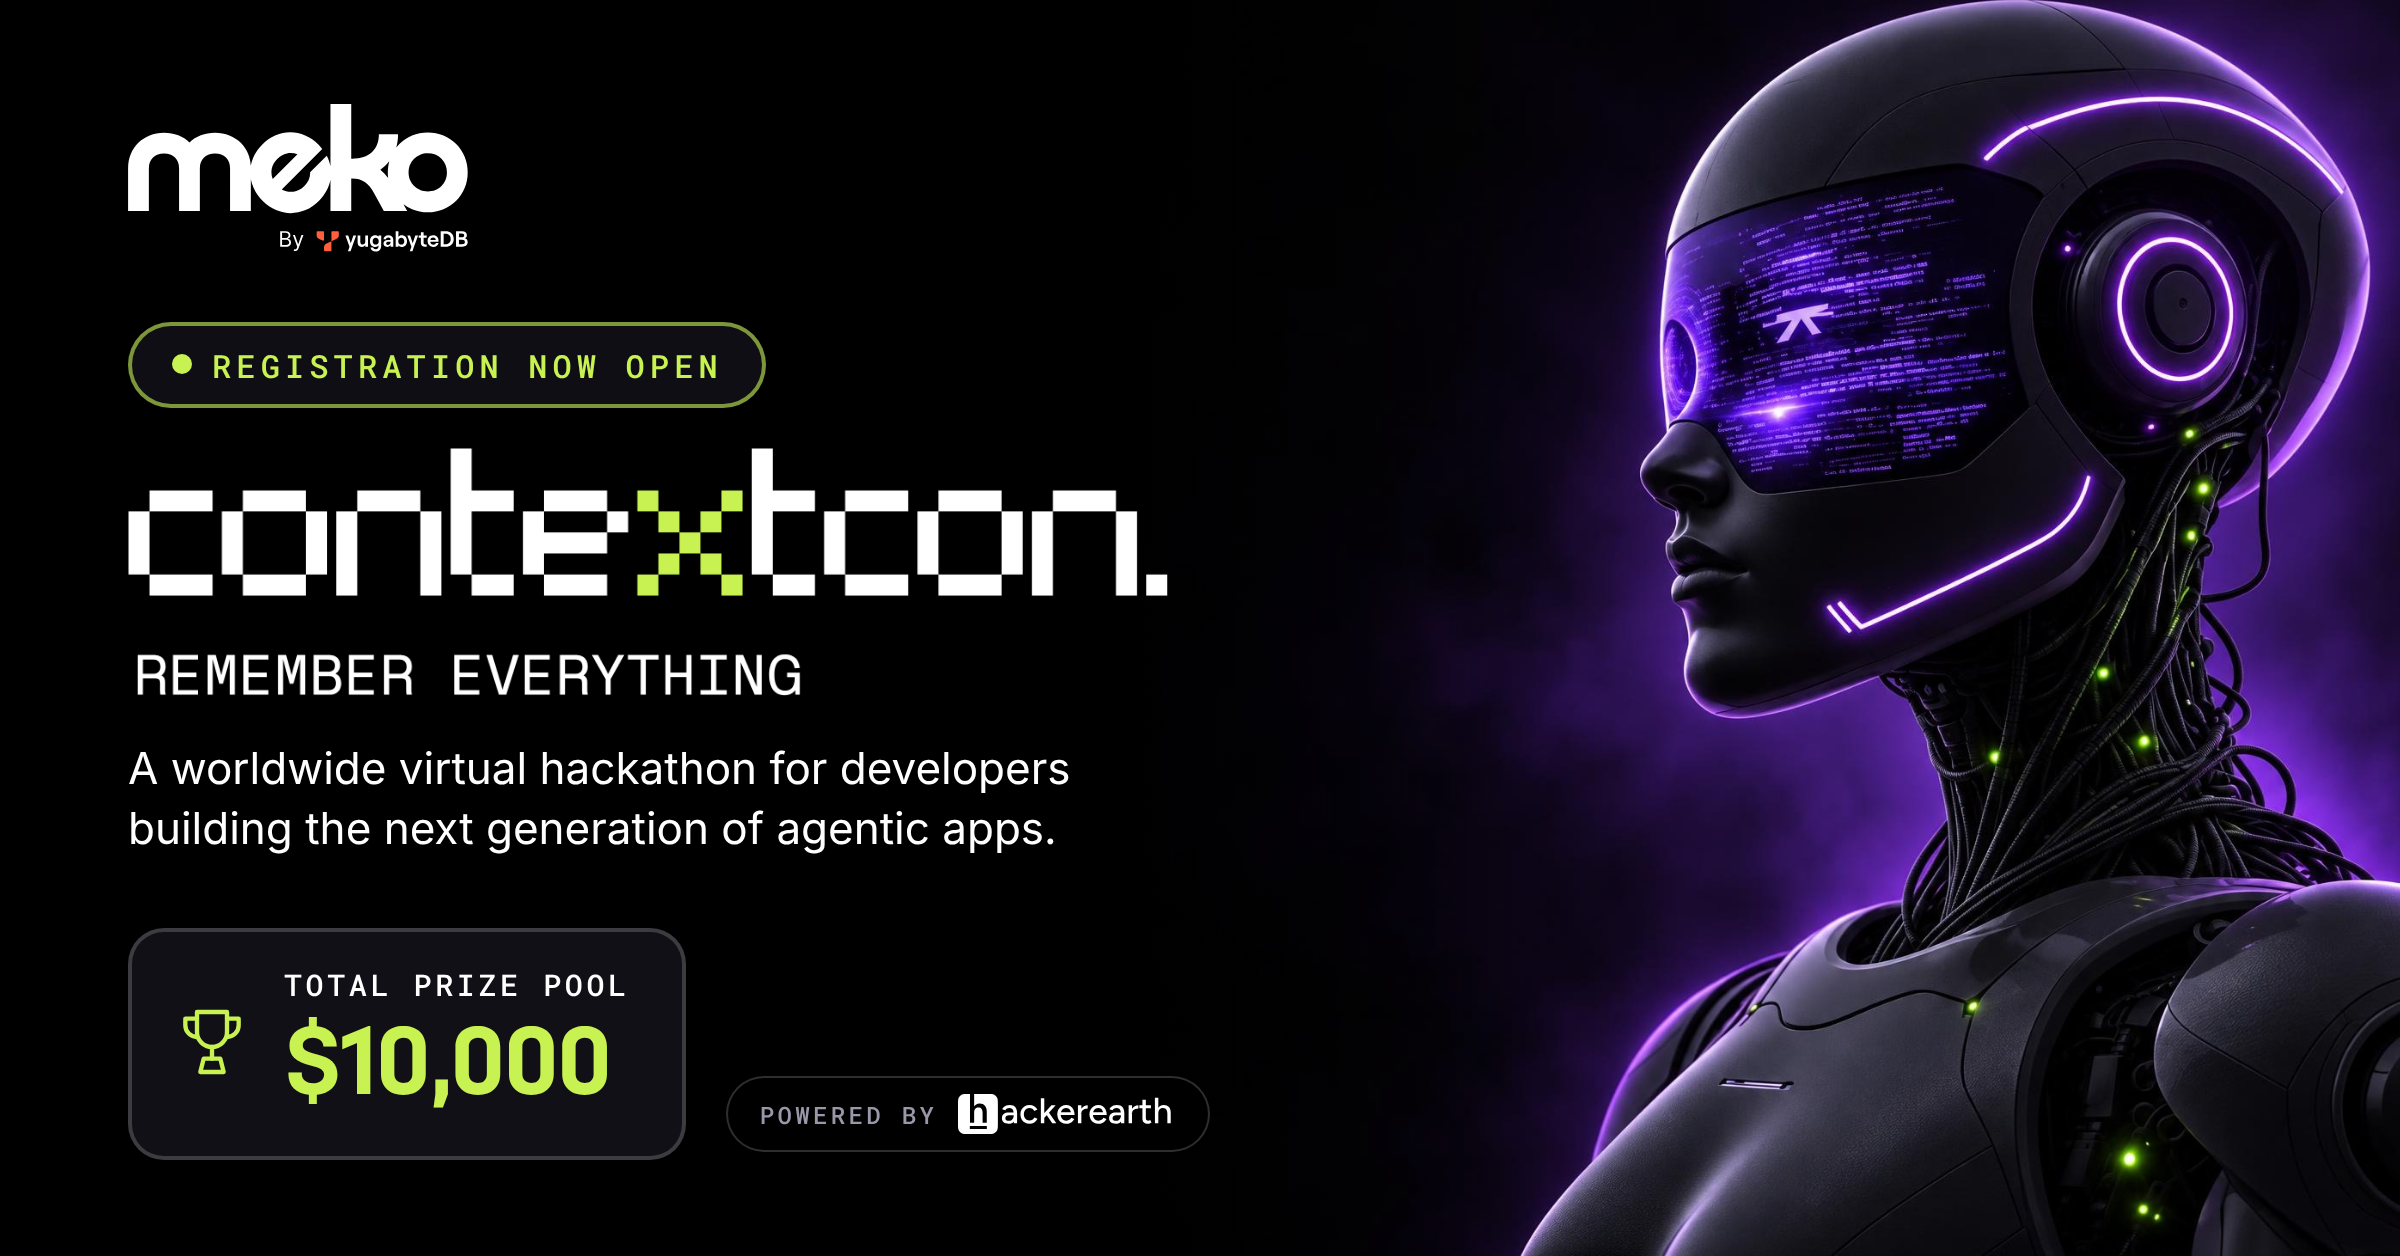
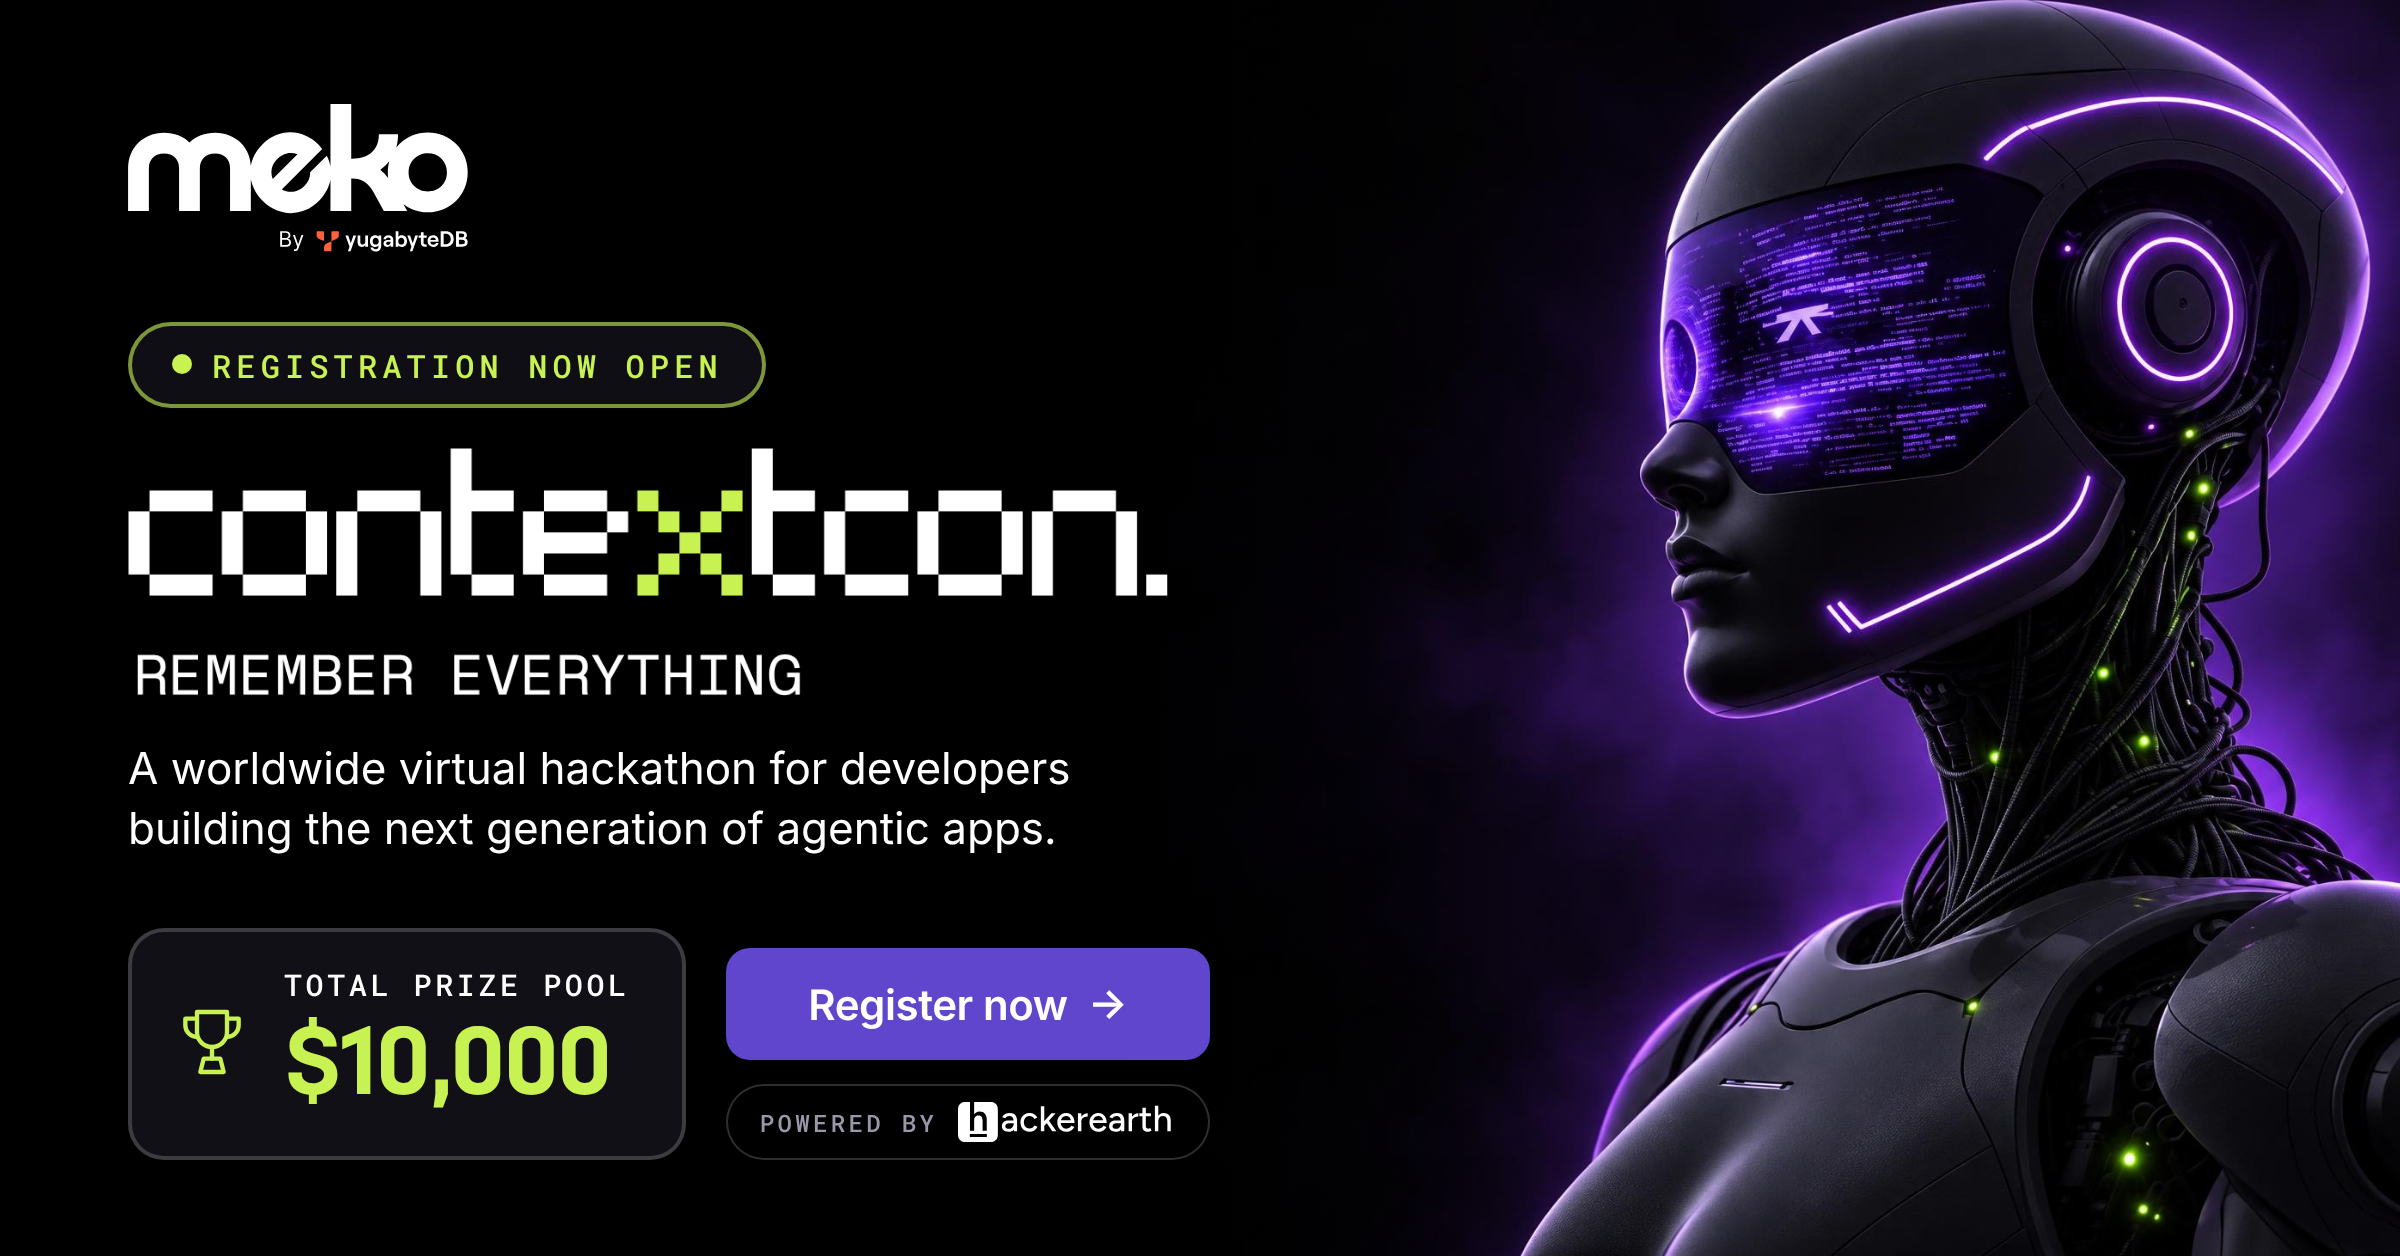
Facebook post: add Register now button
Claude-Session: https://claude.ai/code/session_011WvSfbuXTc2R9BKwTF66Kj

Changed region(s): [[0.2812, 0.7452, 0.5312, 0.9315]]

diff --git a/banners/contextcon-facebook-1200x628.html b/banners/contextcon-facebook-1200x628.html
@@ -36,7 +36,9 @@ h1 img{display:block;width:100%;height:auto}
 .prize svg{flex:none;width:40px;height:40px;display:block}
 .prize .k{display:block;font-family:var(--mono);font-size:15px;font-weight:500;letter-spacing:.12em;text-transform:uppercase;color:var(--white)}
 .prize .v{display:block;margin-top:8px;font-family:'Bloka',var(--sans);font-size:50px;line-height:1;font-weight:700;letter-spacing:-.0225em;color:var(--lime);white-space:nowrap}
-.powered{margin:0 0 4px;display:flex;align-items:center;gap:10px;background:rgba(0,0,0,.6);border:1px solid var(--line-2);border-radius:999px;padding:8px 18px 8px 16px}
+.side{display:flex;flex-direction:column;align-items:stretch;gap:12px}
+.cta{display:flex;align-items:center;justify-content:center;gap:10px;height:56px;padding:0 26px;border-radius:12px;background:var(--purple-mid,#5f46cd);color:var(--white);font-size:21px;font-weight:600;letter-spacing:-.01em;text-decoration:none}
+.powered{margin:0;display:flex;align-items:center;gap:10px;background:rgba(0,0,0,.6);border:1px solid var(--line-2);border-radius:999px;padding:8px 18px 8px 16px}
 .powered .k{font-family:var(--mono);font-size:12px;font-weight:500;letter-spacing:.14em;text-transform:uppercase;color:var(--muted)}
 .powered .v{display:block;height:20px;width:auto}
 </style>
@@ -51,7 +53,10 @@ h1 img{display:block;width:100%;height:auto}
     <p class="lede">A worldwide virtual hackathon for developers building the next generation of agentic apps.</p>
     <div class="row">
       <div class="prize"><svg viewBox="0 0 48 48" aria-hidden="true" fill="none" stroke="#c7f252" stroke-width="2.6" stroke-linecap="round" stroke-linejoin="round"><path d="M15 6h18v12a9 9 0 0 1-18 0z"/><path d="M15 10H8v4a7 7 0 0 0 7 7"/><path d="M33 10h7v4a7 7 0 0 1-7 7"/><path d="M24 27v7"/><path d="M17 42h14l-2-8H19z"/></svg><div class="txt"><span class="k">Total prize pool</span><span class="v">$10,000</span></div></div>
-      <p class="powered"><span class="k">Powered by</span><img class="v" src="assets/hackerearth-logo-light.svg" alt="HackerEarth"></p>
+      <div class="side">
+        <a class="cta" href="#">Register now <span aria-hidden="true">→</span></a>
+        <p class="powered"><span class="k">Powered by</span><img class="v" src="assets/hackerearth-logo-light.svg" alt="HackerEarth"></p>
+      </div>
     </div>
   </div>
 </main>
